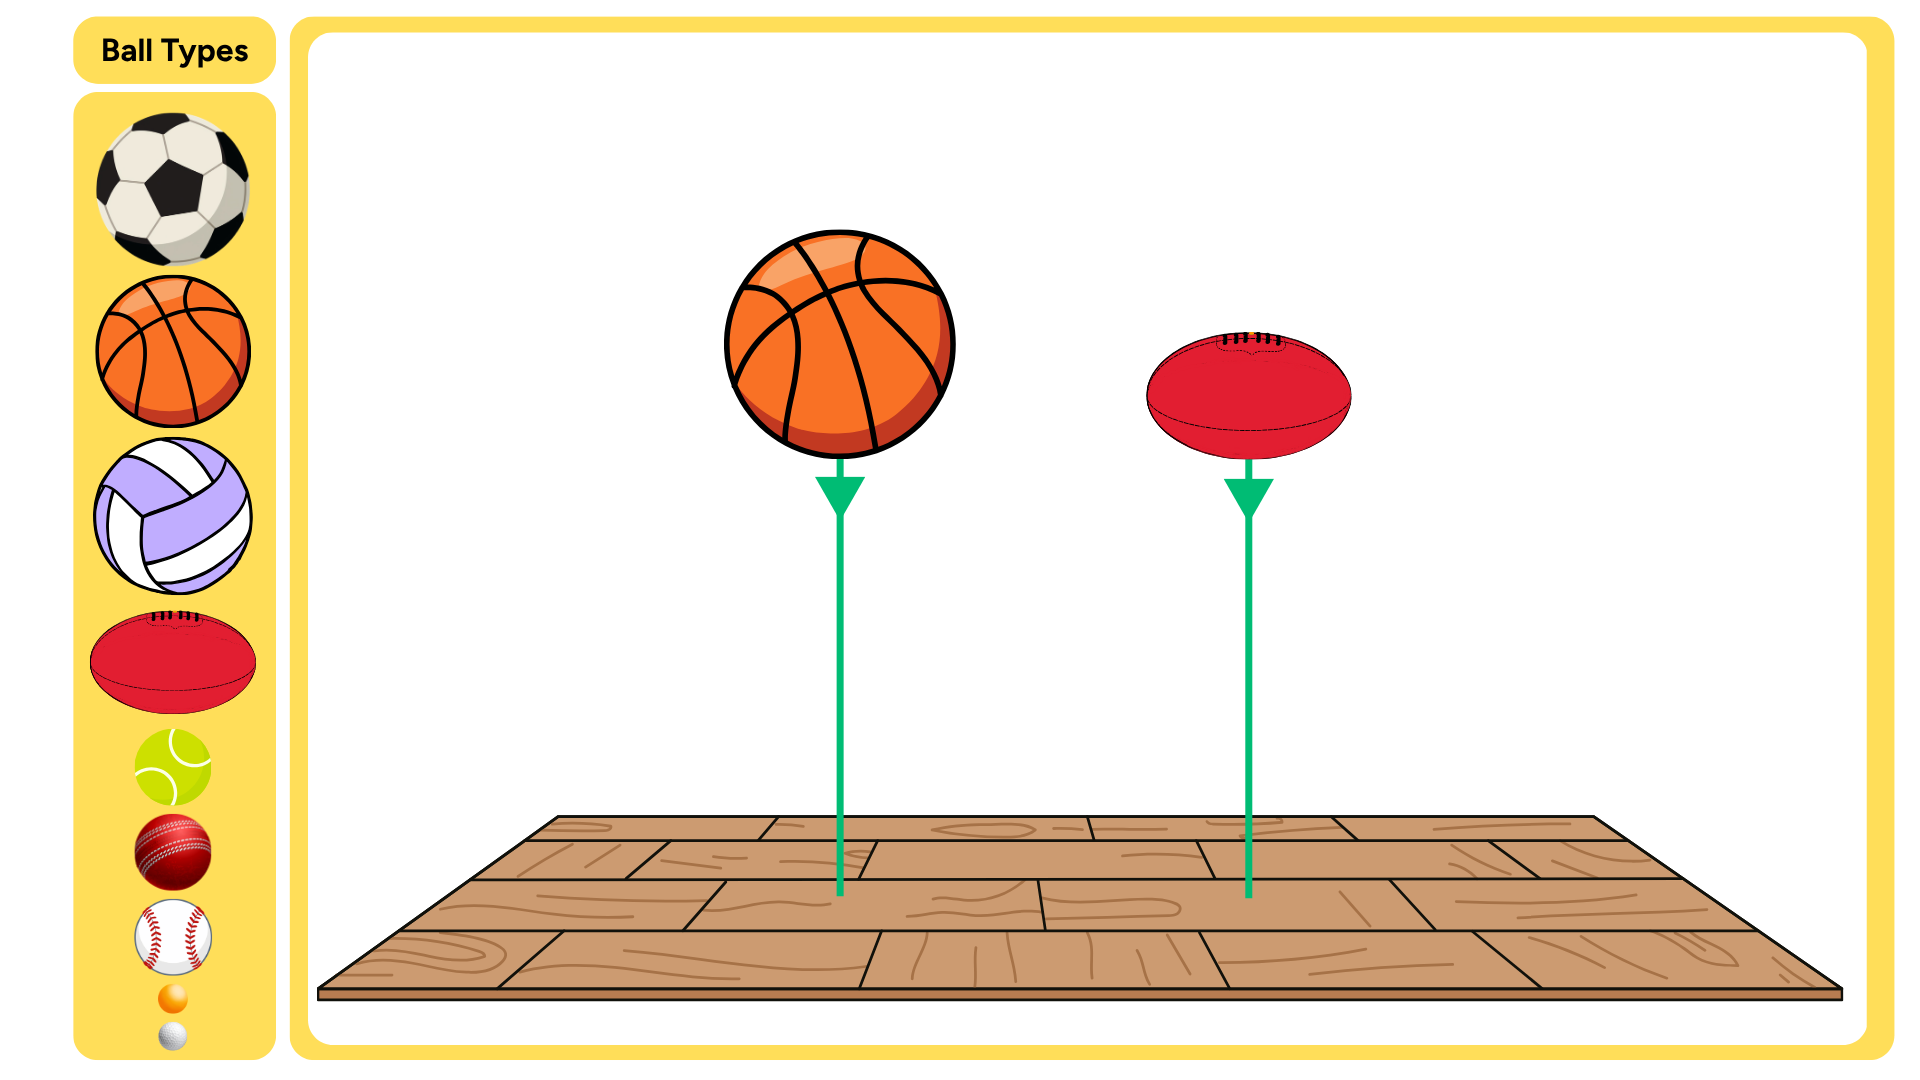
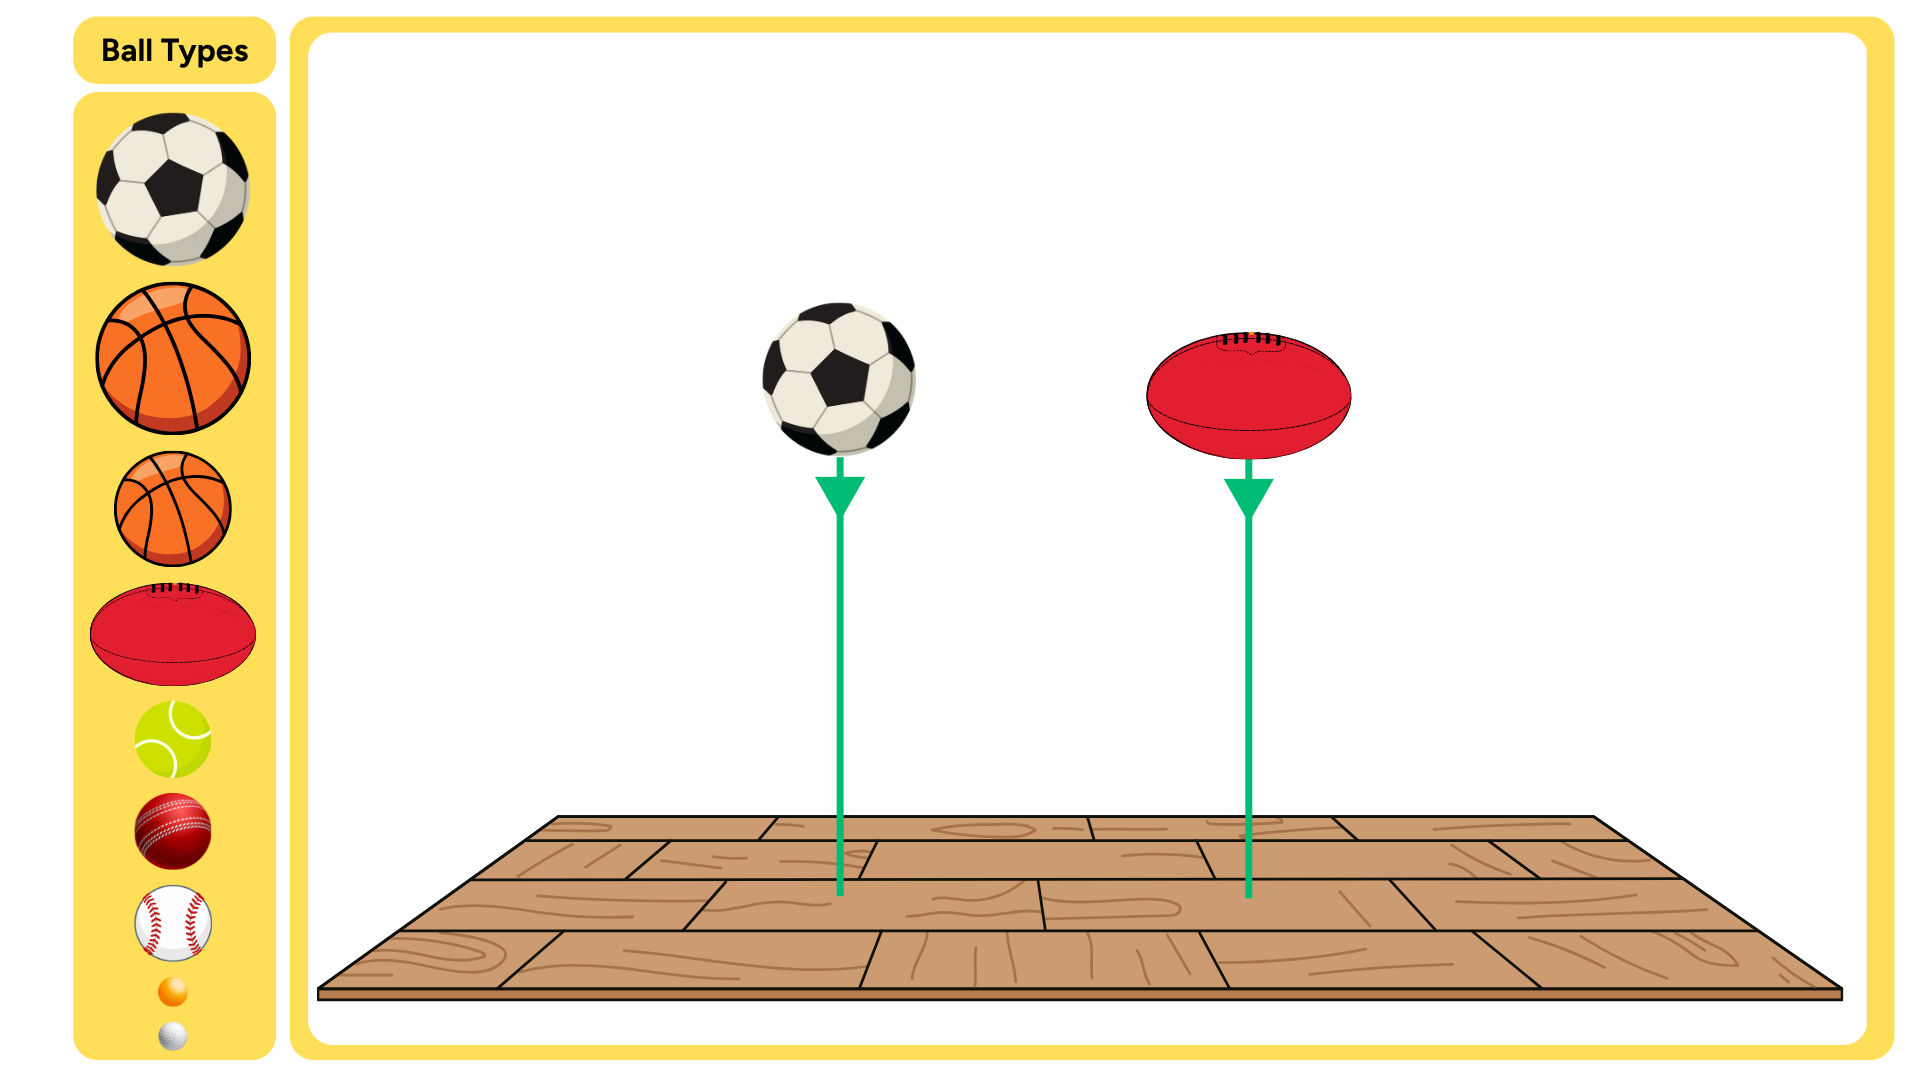
changes

Changed region(s): [[0.0312, 0.2444, 0.1562, 0.9472], [0.375, 0.2139, 0.5, 0.4278]]

diff --git a/styles/lesson2_styles/lesson2.css b/styles/lesson2_styles/lesson2.css
@@ -186,19 +186,19 @@
       line-height: 1.55;
     }
 
-    .variable-type-card.independent {
-      border-top: 10px solid var(--yellow);
-      background: var(--soft-yellow);
+    .variable-type-card.independent{
+        border-top:10px solid var(--yellow);
+        background:white;
     }
 
-    .variable-type-card.dependent {
-      border-top: 10px solid var(--purple);
-      background: var(--soft-purple);
+    .variable-type-card.dependent{
+        border-top:10px solid var(--purple);
+        background:white;
     }
 
-    .variable-type-card.controlled {
-      border-top: 10px solid var(--green);
-      background: var(--soft-green);
+    .variable-type-card.controlled{
+        border-top:10px solid var(--green);
+        background:white;
     }
 
     .fair-test-rule {
@@ -214,19 +214,26 @@
     }
 
     .variable-activity {
-      padding: 22px;
-      border: 3px solid var(--line);
-      border-radius: 22px;
-      background: var(--soft-blue);
-      box-shadow: var(--shadow-small);
+        padding: 28px;
+        border: 3px solid var(--line);
+        border-radius: 22px;
+        background:
+        linear-gradient(
+            to bottom,
+            white,
+            rgba(117,221,232,.18)
+        );
+        box-shadow:
+            inset 0 2px 0 rgba(255,255,255,0.9),
+            var(--shadow-small);
     }
 
     .variable-question {
-      margin: 0 0 18px;
-      padding: 16px 18px;
+      margin: 0 0 12px;
+      padding: 14px 18px;
       border: 2px solid var(--line);
       border-radius: 16px;
-      background: white;
+      background: var(--paper);
       color: var(--text);
       font-weight: 700;
       line-height: 1.55;
@@ -236,7 +243,8 @@
       display: flex;
       flex-wrap: wrap;
       gap: 10px;
-      margin-bottom: 18px;
+      margin-top: 12px;
+      margin-bottom: 14px;
     }
 
     .variable-mode-button {
@@ -250,16 +258,22 @@
       cursor: pointer;
     }
 
+    .independent-mode-button,
+    .dependent-mode-button,
+    .controlled-mode-button {
+      background: white;
+    }
+
     .independent-mode-button {
-      background: var(--soft-yellow);
+      border-top: 6px solid var(--yellow);
     }
 
     .dependent-mode-button {
-      background: var(--soft-purple);
+      border-top: 6px solid var(--purple);
     }
 
     .controlled-mode-button {
-      background: var(--soft-green);
+      border-top: 6px solid var(--green);
     }
 
     .variable-tile-grid {
@@ -299,34 +313,65 @@
       transition:
         transform 0.18s ease,
         box-shadow 0.18s ease,
+        background-color 0.22s ease,
+        border-color 0.22s ease,
         opacity 0.18s ease;
     }
 
-    .sort-variables-section .variable-mode-button:not(:disabled):hover,
-    .sort-variables-section .variable-mode-button.mode-active {
+    .sort-variables-section
+    .variable-mode-button:not(:disabled):not(.mode-active):hover {
       transform: translateY(-2px);
-      box-shadow: 0 4px 0 var(--line);
+      box-shadow: 0 3px 0 rgba(48, 51, 47, 0.35);
     }
 
     .sort-variables-section .variable-mode-button.mode-active {
-      outline: 4px solid rgba(48, 51, 47, 0.16);
+      transform: translateY(0);
+      box-shadow: none;
+      outline: none;
     }
 
     /* Stronger GTAC colours only for the currently selected variable type */
 
     .sort-variables-section
     .independent-mode-button.mode-active {
-      background: var(--yellow);
+      background: var(--soft-yellow);
+      border-color: var(--line);
+      border-top-color: var(--yellow);
     }
 
     .sort-variables-section
     .dependent-mode-button.mode-active {
-      background: var(--lavender);
+      background: var(--soft-purple);
+      border-color: var(--line);
+      border-top-color: var(--purple);
     }
 
     .sort-variables-section
     .controlled-mode-button.mode-active {
-      background: var(--mint);
+      background: var(--soft-green);
+      border-color: var(--line);
+      border-top-color: var(--green);
+    }
+
+    .sort-variables-section
+    .independent-mode-button.mode-complete {
+      background: var(--soft-yellow);
+      border-color: var(--line);
+      border-top-color: var(--yellow);
+    }
+
+    .sort-variables-section
+    .dependent-mode-button.mode-complete {
+      background: var(--soft-purple);
+      border-color: var(--line);
+      border-top-color: var(--purple);
+    }
+
+    .sort-variables-section
+    .controlled-mode-button.mode-complete {
+      background: var(--soft-green);
+      border-color: var(--line);
+      border-top-color: var(--green);
     }
 
     .sort-variables-section .variable-mode-button:disabled,
@@ -345,7 +390,8 @@
 
       transition:
         transform 0.18s ease,
-        background 0.18s ease;
+        background-color 0.18s ease,
+        border-color 0.18s ease;
     }
 
     .sort-variables-section .variable-tile-label {
@@ -363,15 +409,18 @@
     /* Use the existing Lesson 2 variable colours */
 
     .sort-variables-section .variable-tile.is-independent {
-      background: var(--soft-yellow);
+      background: white;
+      border-top: 6px solid var(--yellow);
     }
 
     .sort-variables-section .variable-tile.is-dependent {
-      background: var(--soft-purple);
+      background: white;
+      border-top: 6px solid var(--purple);
     }
 
     .sort-variables-section .variable-tile.is-controlled {
-      background: var(--soft-green);
+      background: white;
+      border-top: 6px solid var(--green);
     }
 
     .sort-variables-section .variable-tile.is-classified {
@@ -462,8 +511,7 @@
       display: grid;
       grid-template-columns:
         repeat(2, minmax(0, 1fr));
-      gap: 18px;
-
+      gap: 22px;
       margin-top: 20px;
     }
 
@@ -473,8 +521,8 @@
       align-items: stretch;
       gap: 12px;
 
-      min-height: 260px;
-      padding: 20px;
+      min-height: 240px;
+      padding: 16px;
 
       background: var(--paper);
       color: var(--text);
@@ -495,13 +543,15 @@
         background 0.18s ease;
     }
 
-    .ball-pair-card:hover {
+    .ball-pair-card:not(.selected):hover {
       transform: translateY(-3px);
       box-shadow: 0 7px 0 var(--line);
     }
 
     .ball-pair-card.selected {
-      outline: 5px solid rgba(78, 50, 232, 0.18);
+      outline: none;
+      transform: translateY(0);
+      box-shadow: 0 3px 0 var(--line);
     }
 
     .ball-pair-card.correct-selection {
@@ -519,7 +569,7 @@
 
       width: 100%;
       min-height: 180px;
-      padding: 12px;
+      padding: 8px;
 
       overflow: hidden;
 
@@ -528,6 +578,8 @@
       border: 2px solid var(--line);
       border-radius: 16px;
     }
+
+    
 
     .ball-pair-image {
       display: block;
@@ -563,16 +615,16 @@
     }
 
     #choose-ball-pair .variable-feedback {
-      margin-top: 18px;
-      padding: 14px 16px;
+      margin-top: 20px;
+      padding: 12px 16px;
 
       background: rgba(255, 255, 255, 0.72);
-      color: var(--text);
+      color: var(--muted);
 
-      border: 2px dashed var(--line);
-      border-radius: 16px;
+      border: 2px dashed rgba(48, 51, 47, 0.72);
+      border-radius: 14px;
 
-      font-weight: 700;
+      font-weight: 600;
       line-height: 1.5;
       text-align: center;
     }
@@ -585,6 +637,16 @@
     #choose-ball-pair .variable-feedback.feedback-try-again {
       background: var(--soft-orange);
       border-style: solid;
+    }
+
+    #choose-ball-pair .content-box {7
+      padding: 14px 18px;
+    }
+
+    #choose-ball-pair .variable-feedback.feedback-success,
+    #choose-ball-pair .variable-feedback.feedback-try-again {
+      color: var(--text);
+      font-weight: 700;
     }
 
     @media (max-width: 760px) {
@@ -1002,9 +1064,9 @@
     }
 
     .variable-mode-subtitle {
-        font-size: 0.8rem;
+        font-size: 0.82rem;
         font-weight: 600;
-        opacity: 0.75;
+        opacity: 0.9;
     }
 
     .procedure-comparison-grid {
@@ -1150,3 +1212,40 @@
    .bk-area {
     margin-bottom: 10px;
    }
+
+   /* Lesson 2 section heading colours — add gradually */
+
+#discover-variables .section-title {
+  background: var(--green);
+  color: var(--charcoal);
+}
+
+#variable-types .section-title {
+  background: var(--purple);
+  color: white;
+}
+
+#sort-variables-one .section-title{
+    background: var(--blue);
+    color: var(--charcoal);
+}
+
+#choose-ball-pair .section-title{
+    background: var(--orange);
+    color:white;
+}
+
+#design-question .section-title{
+    background: var(--yellow);
+    color: var(--charcoal);
+}
+
+#sort-variables-three .section-title{
+    background: var(--green);
+    color: var(--charcoal);
+}
+
+#build-experiment .section-title{
+    background: var(--purple);
+    color:white;
+}

diff --git a/lesson2/lesson2.html b/lesson2/lesson2.html
@@ -2204,6 +2204,15 @@ function handleVariableTileClick(
       "Controlled variable"
     );
 
+    const controlledButton =
+      variableStructure.activity.querySelector(
+        '[data-variable-mode="controlled"]'
+      );
+
+    if (controlledButton) {
+      controlledButton.classList.add("mode-complete");
+    }
+
     /*
       Count all unclassified tiles.
 
@@ -2272,6 +2281,7 @@ function finishVariableSelection(
   }
 
   modeButton.classList.remove("mode-active");
+  modeButton.classList.add("mode-complete");
 
   modeButton.setAttribute(
     "aria-pressed",
@@ -2428,7 +2438,10 @@ function resetSortVariables(variableStructure) {
 
   variableStructure.modeButtons.forEach(function(button) {
     button.disabled = false;
-    button.classList.remove("mode-active");
+    button.classList.remove(
+      "mode-active",
+      "mode-complete"
+    );
     button.setAttribute("aria-pressed", "false");
   });
 
